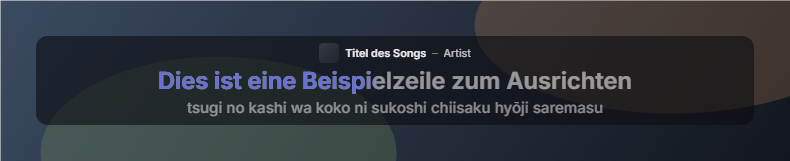
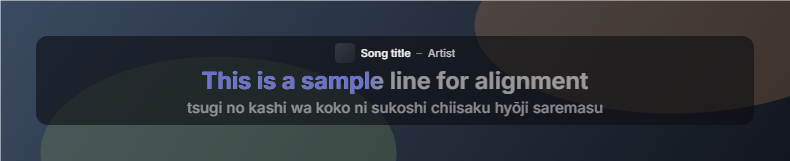
docs: English screenshots for the README
README.md now shows the overlay and the settings in English. The German
screenshots move to docs/img/de/ and stay in README.de.md.

Changed region(s): [[0.1823, 0.4348, 0.8203, 0.5901], [0.3949, 0.2795, 0.6076, 0.3727]]

diff --git a/README.de.md b/README.de.md
@@ -6,12 +6,12 @@ Windows-Overlay, das den laufenden Spotify-Song und karaoke-artig mitlaufende Ly
 
 Stand: Phase 5 (`v0.5.0-phase5`), Robustheit und Release. Das Overlay zeigt die synchronen Lyrics des laufenden Spotify-Songs von [LRCLIB](https://lrclib.net) mit einer Karaoke-Füllung, die Wort für Wort läuft, dazu Cover, Titel und Artist; Position und Größe lassen sich im Edit-Modus direkt am Bildschirm einstellen. Vier Layouts, fünf Themes mit Akzentfarbe aus dem Albumcover, Deutsch und Englisch. Das Overlay bleibt auch über Spielen oben, die sich selbst nach vorne setzen, und lässt sich auf Vollbild-Apps beschränken. Korrekturen gelten pro Song, Ausgabegeräte haben eigene Offsets, und ein Kalibrier-Assistent und das Sync Lab helfen beim Einstellen. Japanische Zeilen lassen sich in Romaji anzeigen ([docs/romaji.md](docs/romaji.md)). Ergebnisse in [docs/phase5.md](docs/phase5.md) und die Sicherheits-, Performance- und Speicherplatz-Prüfungen in [docs/checks.md](docs/checks.md), [docs/phase4.md](docs/phase4.md), [docs/phase3.md](docs/phase3.md) mit dem Messbericht [docs/sync-report.md](docs/sync-report.md), dazu [docs/phase2.md](docs/phase2.md) und [docs/phase1.md](docs/phase1.md), die Spikes aus Phase 0 in [docs/spike-smtc.md](docs/spike-smtc.md) und [docs/spike-overlay.md](docs/spike-overlay.md).
 
-![Overlay im Layout Karaoke, Theme Glass Dark](docs/img/overlay-karaoke.png)
+![Overlay im Layout Karaoke, Theme Glass Dark](docs/img/de/overlay-karaoke.png)
 
 | | |
 |---|---|
-| ![Layout Stapel, Theme Glass Light](docs/img/overlay-stack-light.png) | ![Layout Minimal, Theme Neon](docs/img/overlay-minimal-neon.png) |
-| ![Einstellungen → Darstellung](docs/img/settings-appearance.png) | ![Einstellungen → Hotkeys](docs/img/settings-hotkeys.png) |
+| ![Layout Stapel, Theme Glass Light](docs/img/de/overlay-stack-light.png) | ![Layout Minimal, Theme Neon](docs/img/de/overlay-minimal-neon.png) |
+| ![Einstellungen → Darstellung](docs/img/de/settings-appearance.png) | ![Einstellungen → Hotkeys](docs/img/de/settings-hotkeys.png) |
 
 Die Bilder zeigen Beispielzeilen; Liedtexte stehen nicht im Repository.
 
